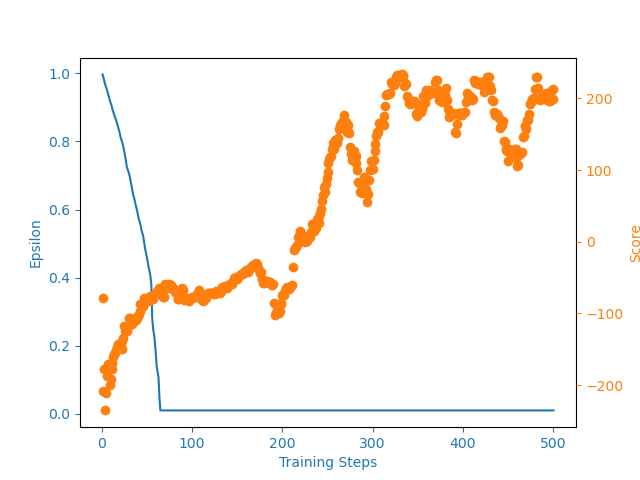
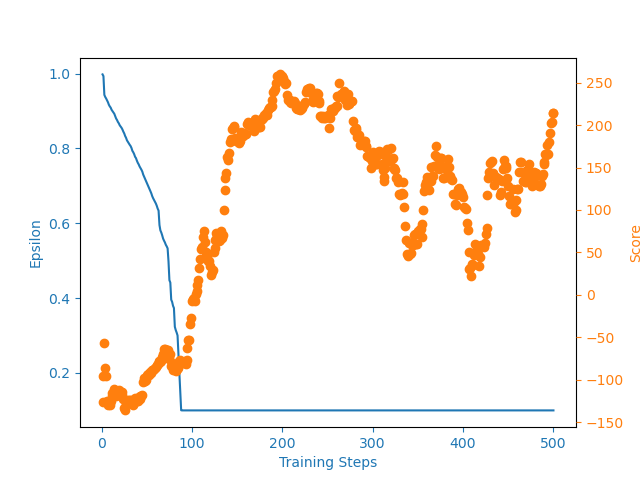
updated CNN parameters

diff --git a/utils.py b/utils.py
@@ -47,7 +47,7 @@ class CNNQNetwork(nn.Module):
 
         self.conv1   = nn.Conv2d(1, self.filter1,8, stride=4)
         self.conv2   = nn.Conv2d(self.filter1, self.filter2,4, stride=2)
-        self.conv3   = nn.Conv2d(self.filter1, self.filter2,3, stride=1)
+        self.conv3   = nn.Conv2d(self.filter2,32,3, stride=1)
         
         if 'neurons' not in locals():
           neurons = self.getNeuronNum(torch.zeros(1,1,*input_dims))
@@ -72,8 +72,9 @@ class CNNQNetwork(nn.Module):
 
     def getNeuronNum(self, x):
         # Pass an arbitrary input x through the network to see how many neurons are needed in the linear layer
-        x = self.maxpool(F.relu(self.conv1(x)))
-        x = self.maxpool(F.relu(self.conv2(x)))
+        x = F.relu(self.conv1(x))
+        x = F.relu(self.conv2(x))
+        x = F.relu(self.conv3(x))
         x = torch.flatten(x, 1)
         return x.numel()
 

diff --git a/main_DQN_CNN.py b/main_DQN_CNN.py
@@ -55,7 +55,7 @@ if __name__ == '__main__':
         scores.append(score)
         eps_history.append(agent.epsilon)
 
-        avg_score = np.mean(scores[-100:])
+        avg_score = np.mean(scores[-10:])
 
         print('episode ', i, 'score %.2f' % score, 
                 'average score %.2f' % avg_score,
